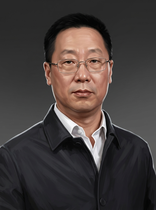
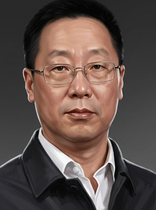
feat(EBS): apply smart face-zoomed crop so leader heads fill portraits prominently

diff --git a/tools/process_ebs_portraits.py b/tools/process_ebs_portraits.py
@@ -1,4 +1,5 @@
 import os
+import cv2
 from PIL import Image
 
 BRAIN_DIR = r"C:\Users\10431\.gemini\antigravity\brain\bcf94466-2063-40f3-abf4-5a33f63af215"
@@ -53,42 +54,71 @@ MAPPINGS = [
     }
 ]
 
-def crop_and_resize(img, target_w, target_h):
-    w, h = img.size
-    target_aspect = target_w / target_h
-    current_aspect = w / h
+cascade_path = cv2.data.haarcascades + 'haarcascade_frontalface_default.xml'
+face_cascade = cv2.CascadeClassifier(cascade_path)
+
+def smart_zoom_head_crop(img_path):
+    cv_img = cv2.imread(img_path)
+    h_img, w_img = cv_img.shape[:2]
+    gray = cv2.cvtColor(cv_img, cv2.COLOR_BGR2GRAY)
+    faces = face_cascade.detectMultiScale(gray, scaleFactor=1.1, minNeighbors=5, minSize=(100, 100))
     
-    if current_aspect > target_aspect:
-        # Image is wider than target aspect: crop width
-        new_w = int(h * target_aspect)
-        offset_x = (w - new_w) // 2
-        cropped = img.crop((offset_x, 0, offset_x + new_w, h))
+    if len(faces) == 0:
+        # Fallback to standard top-focused crop
+        fx, fy, fw, fh = w_img // 4, int(h_img * 0.15), w_img // 2, int(h_img * 0.35)
     else:
-        # Image is taller than target aspect: crop height
-        new_h = int(w / target_aspect)
-        offset_y = (h - new_h) // 2
-        cropped = img.crop((0, offset_y, w, offset_y + new_h))
+        # Pick largest face
+        faces = sorted(faces, key=lambda f: f[2]*f[3], reverse=True)
+        fx, fy, fw, fh = faces[0]
         
-    return cropped.resize((target_w, target_h), Image.Resampling.LANCZOS)
+    cx = fx + fw / 2.0
+    cy = fy + fh / 2.0
+    
+    # Target crop height: roughly 1.95 * fh (so head/face occupies ~50-55% of portrait)
+    crop_h = min(h_img, int(fh * 1.95))
+    crop_h = max(660, min(820, crop_h))
+    crop_w = int(crop_h * (156.0 / 210.0))
+    
+    # Place face center at ~38% from top of crop frame
+    top = int(cy - crop_h * 0.38)
+    left = int(cx - crop_w / 2.0)
+    
+    # Clamp to boundaries
+    if top < 0:
+        top = 0
+    if top + crop_h > h_img:
+        top = h_img - crop_h
+    if left < 0:
+        left = 0
+    if left + crop_w > w_img:
+        left = w_img - crop_w
+        
+    bottom = top + crop_h
+    right = left + crop_w
+    
+    pil_img = Image.open(img_path).convert("RGBA")
+    cropped = pil_img.crop((left, top, right, bottom))
+    return cropped
 
 def main():
     gfx_entries = []
 
+    print("[*] Performing smart face-zoomed crop on all 9 leader portraits...")
     for item in MAPPINGS:
         src_path = os.path.join(BRAIN_DIR, item["file"])
-        img = Image.open(src_path).convert("RGBA")
+        cropped = smart_zoom_head_crop(src_path)
         
         # 156x210 leader large
-        large_img = crop_and_resize(img, 156, 210)
+        large_img = cropped.resize((156, 210), Image.Resampling.LANCZOS)
         large_path = os.path.join(OUT_DIR, f"{item['base_name']}_156x210.png")
         large_img.save(large_path, format="PNG")
         
         # 78x105 advisor small
-        small_img = crop_and_resize(img, 78, 105)
+        small_img = cropped.resize((78, 105), Image.Resampling.LANCZOS)
         small_path = os.path.join(OUT_DIR, f"{item['base_name']}_small_78x105.png")
         small_img.save(small_path, format="PNG")
         
-        print(f"[OK] Processed: {item['base_name']} (large: 156x210, small: 78x105)")
+        print(f"[OK] Zoomed Head Cropped: {item['base_name']} (large: 156x210, small: 78x105)")
         
         gfx_entries.append(f"""\tspriteType = {{
 \t\tname = "GFX_{item['base_name']}"
@@ -103,7 +133,7 @@ def main():
     gfx_content = "spriteTypes = {\n" + "\n".join(gfx_entries) + "\n}\n"
     with open("interface/EBS_characters.gfx", "w", encoding="utf-8") as f:
         f.write(gfx_content)
-    print("[OK] Written interface/EBS_characters.gfx successfully with all 9 leaders!")
+    print("[OK] Written interface/EBS_characters.gfx successfully with all 9 face-zoomed leaders!")
 
 if __name__ == '__main__':
     main()
